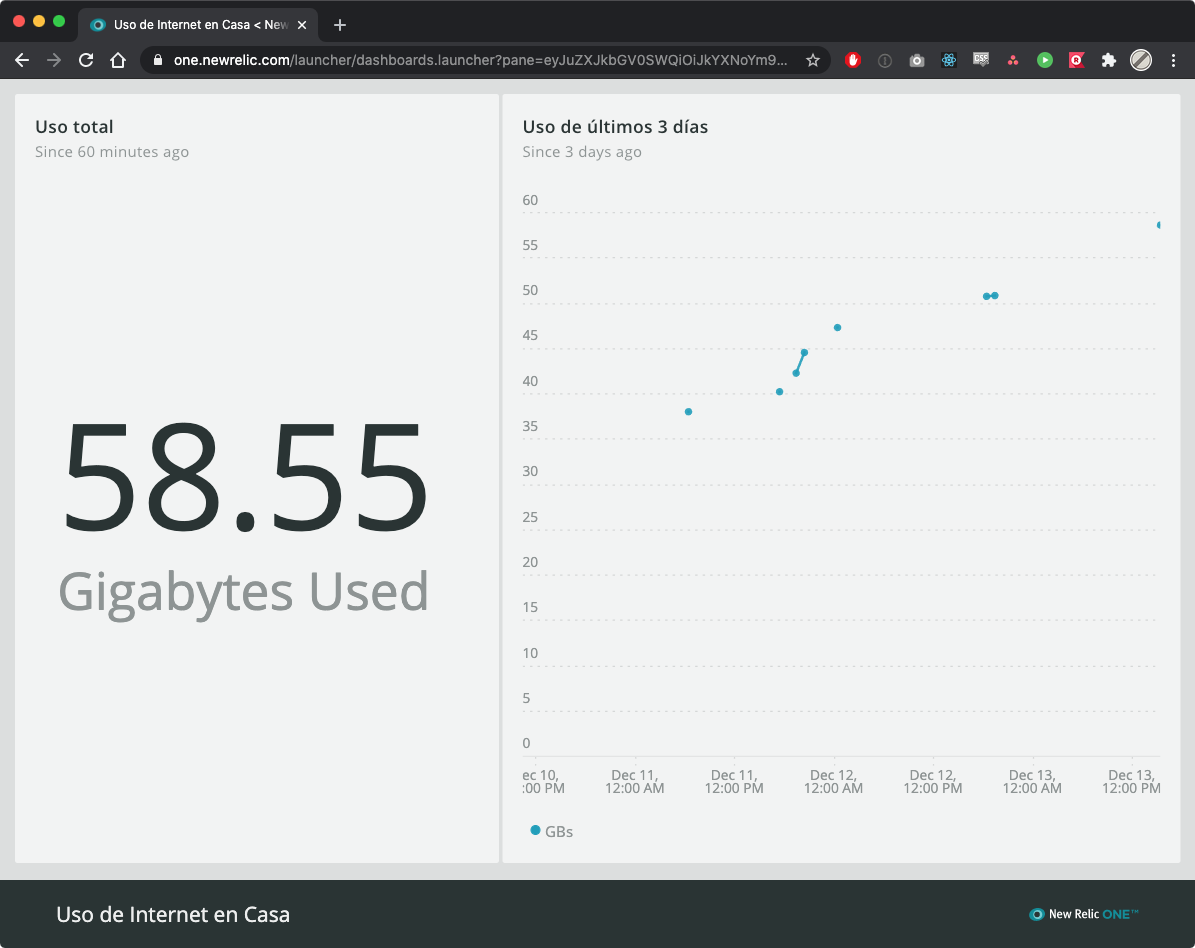
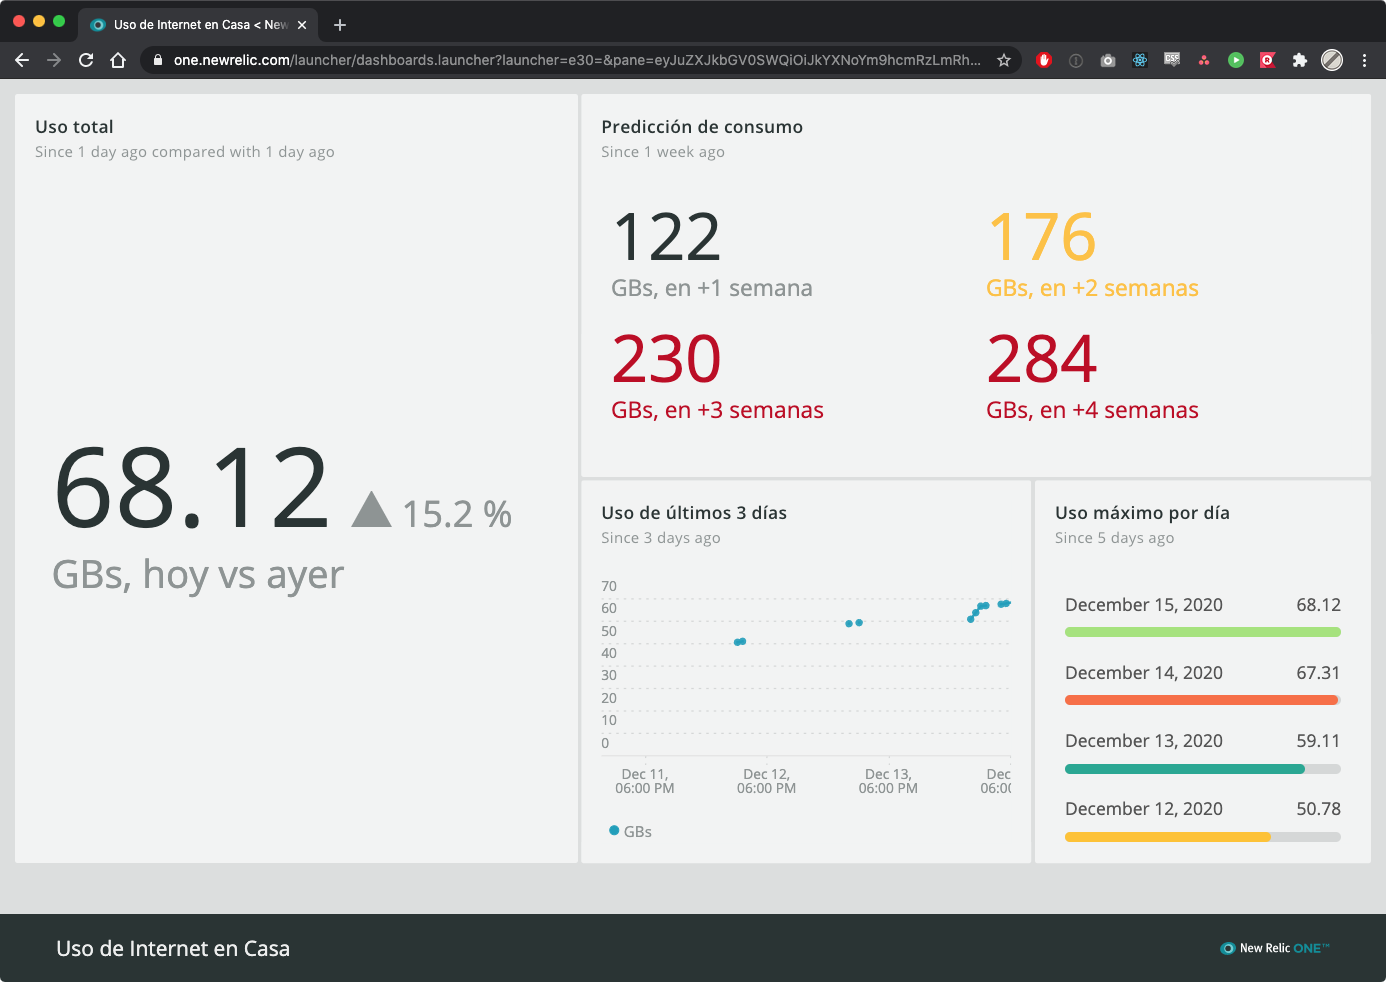
Agrega más consultas al tablero.

diff --git a/README.md b/README.md
@@ -74,9 +74,24 @@ El monitor de consumo [monitor.py](./source/monitor.py) hace lo siguiente:
 Los datos de consumo se guardan en New Relic One como un custom event llamado `MonthlyUsage`.
 Puedes verlo con las siguiente consultas NRQL desde el [Query Builder](https://docs.newrelic.com/docs/query-your-data/explore-query-data/query-builder/introduction-query-builder):
 
+
+#### Uso total
+Al día de hoy, comparado contra ayer:
 ```SQL
-FROM MonthlyUsage SELECT latest(gigabytes_used) SINCE 3 days ago
-FROM MonthlyUsage SELECT rate(latest(gigabytes_used), 1 hour) TIMESERIES SINCE 3 days ago
+FROM MonthlyUsage SELECT latest(gigabytes_used) as 'GBs, hoy vs ayer' since 1 day ago COMPARE WITH 1 day ago
+```
+#### Predicción de uso
+A partir de hoy, para dentro de 1 hasta 4 semanas en el futuro:
+```SQL
+FROM MonthlyUsage SELECT round(predictlinear(gigabytes_used, 1 week)) as 'GBs, en +1 semana', round(predictlinear(gigabytes_used, 2 weeks)) as 'GBs, en +2 semanas', round(predictlinear(gigabytes_used, 3 weeks)) as 'GBs, en +3 semanas', round(predictlinear(gigabytes_used, 4 weeks)) as 'GBs, en +4 semanas' SINCE 1 week ago
+```
+#### Uso en los últimos 3 días
+```SQL
+FROM MonthlyUsage SELECT latest(gigabytes_used) TIMESERIES SINCE 3 days ago
+```
+#### Uso máximo de los últimos 5 días
+```SQL
+FROM MonthlyUsage SELECT latest(gigabytes_used) as 'GBs' SINCE 5 days ago FACET dateOf(timestamp)
 ```
 
 ![Query Builder](docs/nr-tdp-query-builder.png)
